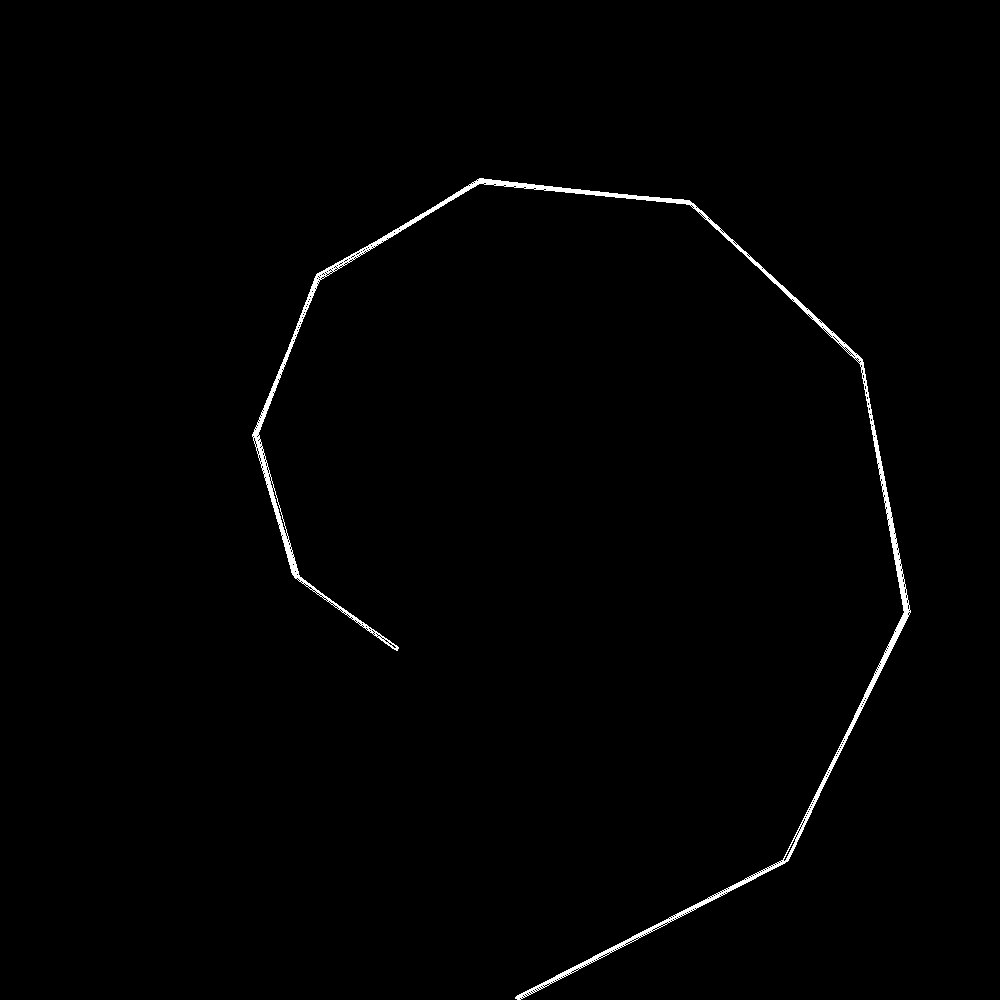
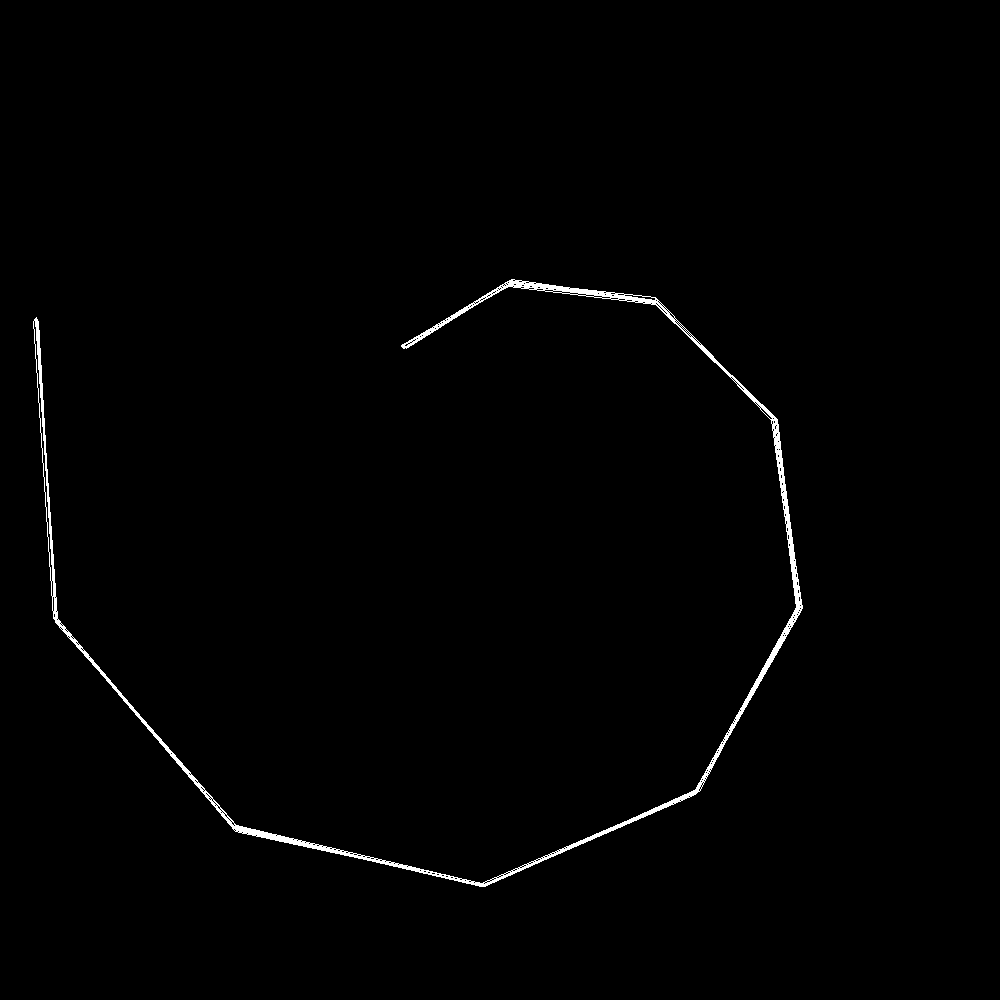
Fixed Rotation of PCA

diff --git a/EX2/main.cpp b/EX2/main.cpp
@@ -73,13 +73,7 @@ Mat reducePCA(Mat &dataMatrix, unsigned int dim)
         // 2. Compute the 2 eigenvectors of the covariance matrix belong into the largest eigenvalues.
         Mat U, S, vT;
         SVD::compute(Cov, S, U, vT);
-        cout << U.rows << ".."<<  U.cols << endl;
-        Mat reduced = U.rowRange(0,dim);
-        Mat reducedT;
-        transpose(reduced, reducedT);
-        cout << reduced.rows << ".."<<  reduced.cols << endl;
-		cout << dataMatrix.rows << ".."<<  dataMatrix.cols << endl;
-        return dataMatrix * reducedT;
+        return dataMatrix * U.colRange(0,dim);
 }
 
 
@@ -123,15 +117,21 @@ map<double, int> KNN(Mat &dataMatrix, int index, int K){
 	int nElem = dataMatrix.rows;
 	map<double, int> distanceMap;
 	Mat x = dataMatrix.row(index);
-	for(int i = 0; i < nElem;i++){
-		Mat x_i = dataMatrix.row(i);
-		Mat diff = x-x_i;
+	for(int i = 0; i < nElem; i++)
+	{
+		//get iths datapoint
+		Mat x_i 	= dataMatrix.row(i);
+		//compute difference to given index
+		Mat diff 	= x - x_i;
+		//compute the L2 norm result in distance
 		Mat diff_t;
 		transpose (diff, diff_t);
 		Mat scalar = diff * diff_t;
 		double distance = sqrt(scalar.at<double>(0,0));
+		//add index and distance to the map
 		distanceMap.insert(pair<double, int>(distance,i));
 	}
+	//take the K nearest distances
 	map<double, int> ret;
 	int k = 0;
 	for (auto iter = distanceMap.begin(); k < K; k++, iter++){
@@ -144,19 +144,17 @@ map<double, int> KNN(Mat &dataMatrix, int index, int K){
 Mat floydWarshall (Mat &distanceMap){
 	int nElem = distanceMap.rows;
 
-	//for(int iter = 0; iter < 5 ; iter++){
-		for (int k = 0; k < nElem; k++){
-			for (int i = 0; i < nElem; i++){
-				for (int j = 0; j < nElem; j++){
-					double shortCut = distanceMap.at<double>(i,k) + distanceMap.at<double>(k,j);
-					if (shortCut < distanceMap.at<double>(i,j)){
-						distanceMap.at<double>(i,j) = shortCut;
-						distanceMap.at<double>(j,i) = shortCut;
-					}
+	for (int k = 0; k < nElem; k++){
+		for (int i = 0; i < nElem; i++){
+			for (int j = 0; j < nElem; j++){
+				double shortCut = distanceMap.at<double>(i,k) + distanceMap.at<double>(k,j);
+				if (shortCut < distanceMap.at<double>(i,j)){
+					distanceMap.at<double>(i,j) = shortCut;
+					distanceMap.at<double>(j,i) = shortCut;
 				}
 			}
 		}
-	//}
+	}
     return distanceMap;
 }
 
@@ -181,20 +179,14 @@ Mat reduceIsomap(Mat &dataMatrix, unsigned int dim)
 		}
 	}
 
-
 	distanceMap = floydWarshall(distanceMap);
 	Mat D = distanceMap.mul(distanceMap);
 	Mat C = Mat::eye(nElem,nElem,CV_64F);
-	C -= (Mat::ones(nElem,nElem,CV_64F) * 1.0/nElem);
-
+	C -= (Mat::ones(nElem,nElem,CV_64F) * 1.0/(double)nElem);
+	cout << C << endl;
 	Mat SVDInput= -0.5 * C * D * C; //X^T * X
     Mat U, S, vT;
     SVD::compute(SVDInput, S, U, vT);
-
-    //Mat reduced = vT.rowRange(0,dim);
-	//Mat reducedT;
-	//transpose(reduced, reducedT);
-
 	return U.colRange(0,dim);
 }
 
